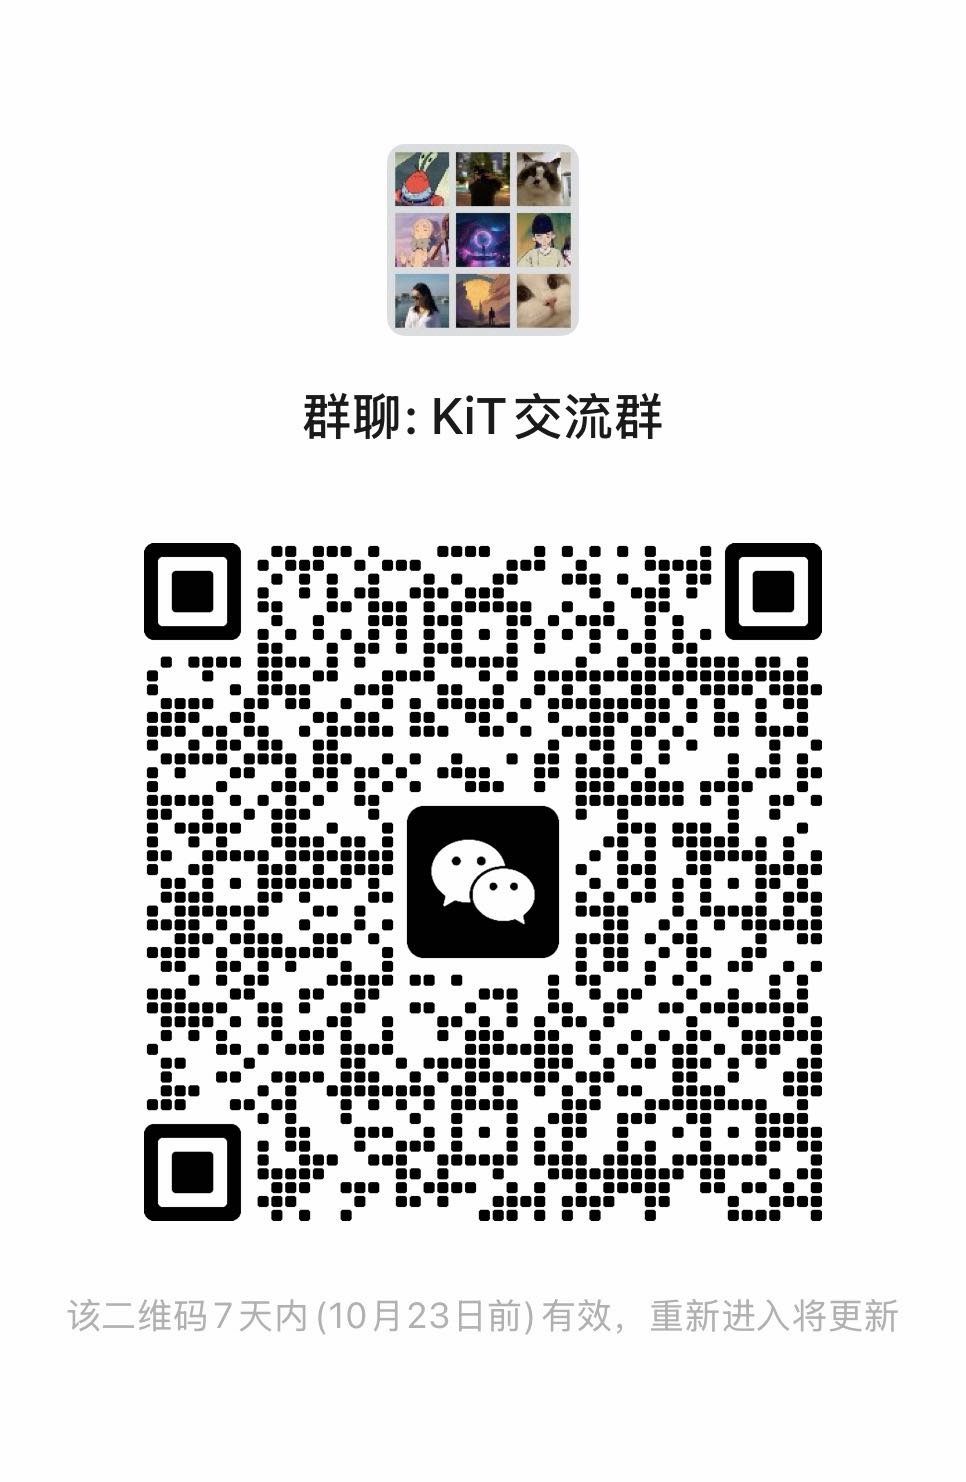
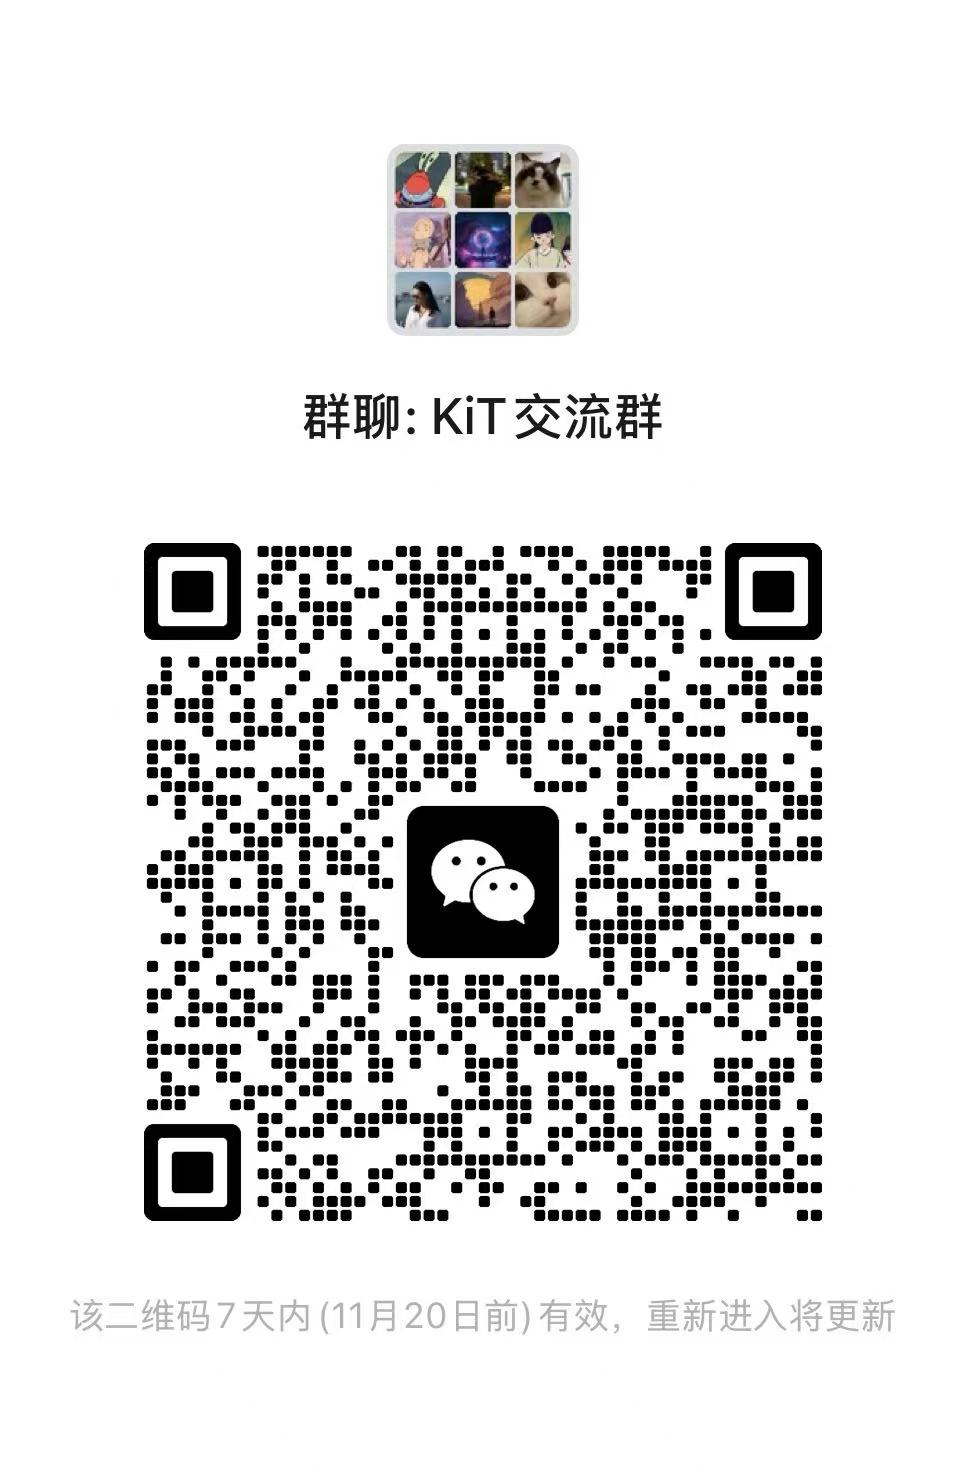
Add a Live Prediction link and refresh the WeChat QR.
Point the badge and section at the demo's English locale setting, and replace the group QR with the code valid until 20 November 2026.

diff --git a/README.md b/README.md
@@ -9,10 +9,15 @@
   <img src="https://img.shields.io/badge/License-AGPL_v3-green.svg" alt="License: AGPL-3.0">
 </a>
 <a href="./assets/group_qr.jpg"><img src="https://img.shields.io/badge/WeChat-KiT Group-07C160?logo=wechat&logoColor=white" alt="WeChat"></a>
+<a href="https://trading.etfnav.org/?lang=en"><img src="https://img.shields.io/badge/Live_Prediction-Demo-2563EB" alt="Live Prediction"></a>
 </div>
 
 
 > KiT is a diffusion-based foundation model for candlestick (K-line) forecasting. It is trained on billions of bars spanning U.S. equities, Chinese A-shares, and cryptocurrencies across seven granularities, from one minute to one day, and achieves SOTA performance in both return forecasting and volatility prediction.
+
+## Live Prediction
+
+The KiT research demo shows live probabilistic candlestick forecasts at [https://trading.etfnav.org/?lang=en](https://trading.etfnav.org/?lang=en).
 
 ## 📑 Todo List
 - Train
@@ -552,7 +557,7 @@ If you use KiT in your research, please cite:
 
 ## 💬 Community
 
-Welcome to join the KiT WeChat group! If the group QR code has expired, add the assistant and we'll invite you. 
+Welcome to join the KiT WeChat group! The group QR code below is valid until 20 November 2026. If it has expired, add the assistant and we'll invite you. 
 
 <div align="center">
 <img src="assets/group_qr.jpg" width="200" alt="KiT WeChat group">
